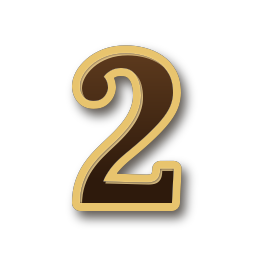
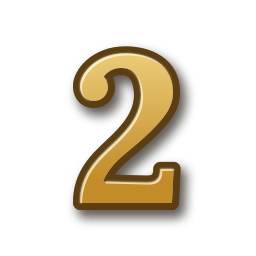
Đồng hồ cổ: căn giữa, phóng to mặt số, thân quả lắc thu gọn cân xứng; số vàng nguyên khối; tích tắc mặc định bật, phát ổn định hơn
Claude-Session: https://claude.ai/code/session_01NiCjr3WhQ3JL1BPmFVNFom

Changed region(s): [[0.2812, 0.1562, 0.7188, 0.8438]]

diff --git a/lib/widgets/pendulum_clock.dart b/lib/widgets/pendulum_clock.dart
@@ -40,78 +40,134 @@ class _PendulumClockState extends State<PendulumClock> with SingleTickerProvider
 
   @override
   Widget build(BuildContext context) {
-    const side = PendulumClock.ringRadius / 0.40; // vòng hình của DreamClock = 0.40 × cạnh
-    return ClipRect(
-      child: FittedBox(
-        fit: BoxFit.cover,
-        alignment: Alignment.topCenter,
-        child: SizedBox(
-          width: PendulumClock.imgW,
-          height: PendulumClock.imgH,
-          child: Stack(
-            children: [
-              Positioned.fill(child: Image.asset('assets/standard/clock_bg.webp', fit: BoxFit.fill)),
-              // quả lắc: chu kỳ 2 giây, chạm biên đúng lúc tích – tắc
-              Positioned(
-                left: PendulumClock.spriteTopLeft.dx,
-                top: PendulumClock.spriteTopLeft.dy,
-                width: PendulumClock.spriteW,
-                height: PendulumClock.spriteH,
-                child: AnimatedBuilder(
-                  animation: _c,
-                  builder: (context, child) {
-                    final now = DateTime.now();
-                    if (now.second != _lastSec) {
-                      if (_lastSec != -1) widget.onTick?.call(now.second.isEven);
-                      _lastSec = now.second;
-                    }
-                    final ms = now.millisecondsSinceEpoch % 2000;
-                    final ang = 0.05 * math.cos(ms / 2000 * 2 * math.pi);
-                    return Transform.rotate(
-                      angle: ang,
-                      alignment: Alignment(
-                        PendulumClock.pivotInSprite.dx / PendulumClock.spriteW * 2 - 1,
-                        PendulumClock.pivotInSprite.dy / PendulumClock.spriteH * 2 - 1,
-                      ),
-                      child: child,
-                    );
-                  },
-                  child: Image.asset('assets/standard/pendulum.webp', fit: BoxFit.fill),
+    return LayoutBuilder(builder: (context, c) {
+      final w = c.maxWidth, h = c.maxHeight;
+      // Đầu đồng hồ (mặt số + trăng lịch) phóng to, căn giữa
+      const hx0 = 40.0, headW = 645.0, headH = 925.0;
+      var hs = w / headW;
+      if (headH * hs > h * 0.7) hs = h * 0.7 / headH; // màn hình ngang / máy tính bảng
+      final headLeft = (w - headW * hs) / 2;
+      final headPx = headH * hs;
+      // Thân đồng hồ (quả lắc) thu gọn cho vừa phần còn lại, căn giữa
+      const tY0 = 925.0, tH = 1035.0, tW = PendulumClock.imgW;
+      final rest = math.max(0.0, h - headPx);
+      final ts = rest / tH;
+      final trunkW = tW * ts;
+      final trunkLeft = (w - trunkW) / 2;
+      final dial = Offset(headLeft + (PendulumClock.dialCenter.dx - hx0) * hs, PendulumClock.dialCenter.dy * hs);
+      final side = PendulumClock.ringRadius * hs / 0.40;
+
+      Widget bg(double scale, double dx, double dy) => Positioned(
+            left: -dx * scale,
+            top: -dy * scale,
+            width: PendulumClock.imgW * scale,
+            height: PendulumClock.imgH * scale,
+            child: Image.asset('assets/standard/clock_bg.webp', fit: BoxFit.fill),
+          );
+
+      return Stack(
+        clipBehavior: Clip.hardEdge,
+        children: [
+          // tường tối ấm
+          const Positioned.fill(
+            child: DecoratedBox(
+              decoration: BoxDecoration(
+                gradient: RadialGradient(
+                  center: Alignment(0, -0.4),
+                  radius: 1.1,
+                  colors: [Color(0xFF3A2618), Color(0xFF120A06)],
                 ),
               ),
-              if (widget.face != null)
-                Positioned(
-                  left: PendulumClock.dialCenter.dx - side / 2,
-                  top: PendulumClock.dialCenter.dy - side / 2,
-                  width: side,
-                  height: side,
-                  child: widget.face!,
-                ),
-              // ngày tháng khắc trên thanh gỗ dưới mặt số
-              if (widget.dateText.isNotEmpty)
-                Positioned(
-                  left: 60,
-                  right: 60,
-                  top: 868,
-                  height: 48,
-                  child: Center(
-                    child: Text(
-                      widget.dateText,
-                      maxLines: 1,
-                      overflow: TextOverflow.ellipsis,
-                      style: const TextStyle(
-                        fontSize: 30,
-                        fontWeight: FontWeight.w600,
-                        color: Color(0xFFF3D27A),
-                        shadows: [Shadow(color: Color(0xCC000000), blurRadius: 4, offset: Offset(0, 2))],
+            ),
+          ),
+          // thân + quả lắc
+          if (rest > 20)
+            Positioned(
+              left: trunkLeft,
+              top: headPx - 2,
+              width: trunkW,
+              height: rest + 2,
+              child: DecoratedBox(
+                decoration: const BoxDecoration(boxShadow: [BoxShadow(color: Color(0xAA000000), blurRadius: 18)]),
+                child: ClipRect(
+                  child: Stack(
+                    clipBehavior: Clip.hardEdge,
+                    children: [
+                      bg(ts, 0, tY0),
+                      Positioned(
+                        left: PendulumClock.spriteTopLeft.dx * ts,
+                        top: (PendulumClock.spriteTopLeft.dy - tY0) * ts,
+                        width: PendulumClock.spriteW * ts,
+                        height: PendulumClock.spriteH * ts,
+                        child: AnimatedBuilder(
+                          animation: _c,
+                          builder: (context, child) {
+                            final now = DateTime.now();
+                            if (now.second != _lastSec) {
+                              if (_lastSec != -1) widget.onTick?.call(now.second.isEven);
+                              _lastSec = now.second;
+                            }
+                            final ms = now.millisecondsSinceEpoch % 2000;
+                            final ang = 0.06 * math.cos(ms / 2000 * 2 * math.pi);
+                            return Transform.rotate(
+                              angle: ang,
+                              alignment: Alignment(
+                                PendulumClock.pivotInSprite.dx / PendulumClock.spriteW * 2 - 1,
+                                PendulumClock.pivotInSprite.dy / PendulumClock.spriteH * 2 - 1,
+                              ),
+                              child: child,
+                            );
+                          },
+                          child: Image.asset('assets/standard/pendulum.webp', fit: BoxFit.fill),
+                        ),
                       ),
-                    ),
+                    ],
                   ),
                 ),
-            ],
+              ),
+            ),
+          // đầu đồng hồ
+          Positioned(
+            left: headLeft,
+            top: 0,
+            width: headW * hs,
+            height: headPx,
+            child: DecoratedBox(
+              decoration: const BoxDecoration(boxShadow: [BoxShadow(color: Color(0x99000000), blurRadius: 14)]),
+              child: ClipRect(child: Stack(clipBehavior: Clip.hardEdge, children: [bg(hs, hx0, 0)])),
+            ),
           ),
-        ),
-      ),
-    );
+          if (widget.face != null)
+            Positioned(
+              left: dial.dx - side / 2,
+              top: dial.dy - side / 2,
+              width: side,
+              height: side,
+              child: widget.face!,
+            ),
+          // ngày tháng trên thanh gỗ dưới mặt số
+          if (widget.dateText.isNotEmpty)
+            Positioned(
+              left: headLeft + 50 * hs,
+              width: (headW - 100) * hs,
+              top: 866 * hs,
+              height: 50 * hs,
+              child: FittedBox(
+                fit: BoxFit.scaleDown,
+                child: Text(
+                  widget.dateText,
+                  maxLines: 1,
+                  style: const TextStyle(
+                    fontSize: 30,
+                    fontWeight: FontWeight.w600,
+                    color: Color(0xFFF3D27A),
+                    shadows: [Shadow(color: Color(0xCC000000), blurRadius: 4, offset: Offset(0, 2))],
+                  ),
+                ),
+              ),
+            ),
+        ],
+      );
+    });
   }
 }

diff --git a/lib/services/app_state.dart b/lib/services/app_state.dart
@@ -72,7 +72,7 @@ class AppState extends ChangeNotifier {
   /// Standard: đồng hồ quả lắc + 12 con số + chuông Big Ben (nhẹ máy). Pro: miễn phí, đủ tính năng, nặng máy hơn.
   bool isPro = false;
   String faceStyle = 'dream'; // Pro chọn mặt: 'dream' (hình ảnh mộng mơ) | 'pendulum' (quả lắc)
-  bool tickTock = false; // tiếng tích tắc của quả lắc
+  bool tickTock = true; // tiếng tích tắc của quả lắc (mặc định bật)
   bool get showPendulum => !isPro || faceStyle == 'pendulum';
 
   /// Bật bản Pro (miễn phí; chỉ nặng máy hơn).
@@ -293,7 +293,7 @@ class AppState extends ChangeNotifier {
         'effectsOn': effectsOn,
         'seasonMode': seasonMode,
         'faceStyle': faceStyle,
-        'tickTock': tickTock,
+        'tickOn': tickTock,
         'seasonNightDim': seasonNightDim,
         'bgSource': bgSource,
         'defaultElemColor': defaultElemColor.name,
@@ -348,7 +348,7 @@ class AppState extends ChangeNotifier {
     effectsOn = (j['effectsOn'] as bool?) ?? effectsOn;
     seasonMode = (j['seasonMode'] as String?) ?? seasonMode;
     faceStyle = (j['faceStyle'] as String?) ?? faceStyle;
-    tickTock = (j['tickTock'] as bool?) ?? tickTock;
+    tickTock = (j['tickOn'] as bool?) ?? tickTock;
     seasonNightDim = (j['seasonNightDim'] as bool?) ?? seasonNightDim;
     bgSource = (j['bgSource'] as String?) ?? bgSource;
     if (j['defaultElemColor'] is String) {

diff --git a/lib/services/sound_service.dart b/lib/services/sound_service.dart
@@ -111,13 +111,27 @@ class SoundService {
   // Tiếng tích – tắc của quả lắc (2 trình phát dùng lại, không tạo mới mỗi giây)
   // ------------------------------------------------------------------
   final AudioPlayer _tickA = AudioPlayer(), _tockB = AudioPlayer();
+  bool _tickReady = false;
+
+  /// Nạp sẵn tiếng tích – tắc 1 lần, sau đó mỗi giây chỉ tua về đầu rồi phát (nhẹ, không trễ).
+  Future<void> _prepareTick() async {
+    _tickReady = true;
+    for (final (p, f) in [(_tickA, 'tick'), (_tockB, 'tock')]) {
+      await p.setReleaseMode(ReleaseMode.stop);
+      await p.setSource(AssetSource('sounds/$f.mp3'));
+    }
+  }
 
   Future<void> tick(bool even) async {
-    final p = even ? _tickA : _tockB;
     try {
-      await p.stop();
-      await p.play(AssetSource('sounds/${even ? 'tick' : 'tock'}.mp3'), volume: volume * 0.35);
-    } catch (_) {}
+      if (!_tickReady) await _prepareTick();
+      final p = even ? _tickA : _tockB;
+      await p.setVolume((volume * 0.8).clamp(0.0, 1.0));
+      await p.seek(Duration.zero);
+      await p.resume();
+    } catch (_) {
+      _tickReady = false;
+    }
   }
 
   /// Nghe thử một âm báo thức (không lặp).

diff --git a/test/pendulum_preview_test.dart b/test/pendulum_preview_test.dart
@@ -12,7 +12,7 @@ void main() {
   TestWidgetsFlutterBinding.ensureInitialized();
 
   testWidgets('vẽ thử bản Standard: quả lắc + 12 con số', (tester) async {
-    tester.view.physicalSize = const Size(400, 760);
+    tester.view.physicalSize = const Size(400, 800);
     tester.view.devicePixelRatio = 1;
     addTearDown(tester.view.reset);
     final key = GlobalKey();

diff --git a/tool/gen_digits.py b/tool/gen_digits.py
@@ -1,5 +1,5 @@
 """Tạo 12 con số 1–12 (nền trong suốt) kiểu đồng hồ cổ cho bản Standard.
-Số chữ có chân (Lora Bold, giấy phép SIL OFL), thân đồng sẫm, viền vàng kim, bóng đổ –
+Số chữ có chân (Lora Bold, giấy phép SIL OFL), vàng nguyên khối, viền đồng sẫm mảnh, bóng đổ –
 hợp với mặt đồng thau và vỏ gỗ của đồng hồ quả lắc.
 Chạy: python3 tool/gen_digits.py → assets/themes/so/1.png … 12.png
 """
@@ -34,14 +34,14 @@ def make(n):
     sh = Image.new('RGBA', (SIZE, SIZE), (0, 0, 0, 0))
     ImageDraw.Draw(sh).text((x + 5, y + 7), text, font=f, fill=(20, 10, 0, 170), stroke_width=8, stroke_fill=(20, 10, 0, 170))
     img.alpha_composite(sh.filter(ImageFilter.GaussianBlur(5)))
-    # viền vàng kim
-    d.text((x, y), text, font=f, fill=(0, 0, 0, 0), stroke_width=8, stroke_fill=(232, 196, 110, 255))
+    # viền đồng sẫm mảnh để số nổi rõ trên mặt đồng thau
+    d.text((x, y), text, font=f, fill=(0, 0, 0, 0), stroke_width=7, stroke_fill=(92, 62, 18, 255))
     # thân số: đồng sẫm chuyển sắc (sáng trên, tối dưới)
     mask = Image.new('L', (SIZE, SIZE), 0)
     ImageDraw.Draw(mask).text((x, y), text, font=f, fill=255)
     grad = Image.new('RGBA', (SIZE, SIZE))
     gd = ImageDraw.Draw(grad)
-    top, bot = (116, 74, 38), (46, 26, 12)
+    top, bot = (255, 236, 160), (196, 140, 40)  # vàng nguyên khối: sáng trên, đậm dưới
     for yy in range(SIZE):
         t = min(1, max(0, (yy - y) / (fs * 0.9)))
         c = tuple(int(top[i] * (1 - t) + bot[i] * t) for i in range(3))
@@ -52,7 +52,7 @@ def make(n):
     shift = Image.new('L', (SIZE, SIZE), 0)
     shift.paste(mask, (2, 2))
     edge = Image.eval(Image.composite(Image.new('L', (SIZE, SIZE), 0), hl, shift), lambda v: int(v * 0.8))
-    img.paste(Image.new('RGBA', (SIZE, SIZE), (255, 228, 160, 255)), (0, 0), edge)
+    img.paste(Image.new('RGBA', (SIZE, SIZE), (255, 252, 225, 255)), (0, 0), edge)
     img.save(os.path.join(OUT, f'{n}.png'))
 
 

diff --git a/tool/gen_tick.py b/tool/gen_tick.py
@@ -13,12 +13,12 @@ OUT = os.path.join(os.path.dirname(__file__), '..', 'assets', 'sounds')
 
 def click(f1, f2, seed):
     rng = np.random.default_rng(seed)
-    t = np.arange(int(SR * 0.12)) / SR
-    env = np.exp(-t / 0.012)
+    t = np.arange(int(SR * 0.18)) / SR
+    env = np.exp(-t / 0.03)
     body = 0.6 * np.sin(2 * np.pi * f1 * t) * np.exp(-t / 0.02) + 0.35 * np.sin(2 * np.pi * f2 * t) * np.exp(-t / 0.01)
     noise = rng.normal(0, 1, len(t)) * np.exp(-t / 0.002) * 0.5
     x = body * env + noise
-    return x / np.max(np.abs(x)) * 0.7
+    return x / np.max(np.abs(x)) * 0.98
 
 
 def save(name, x):
